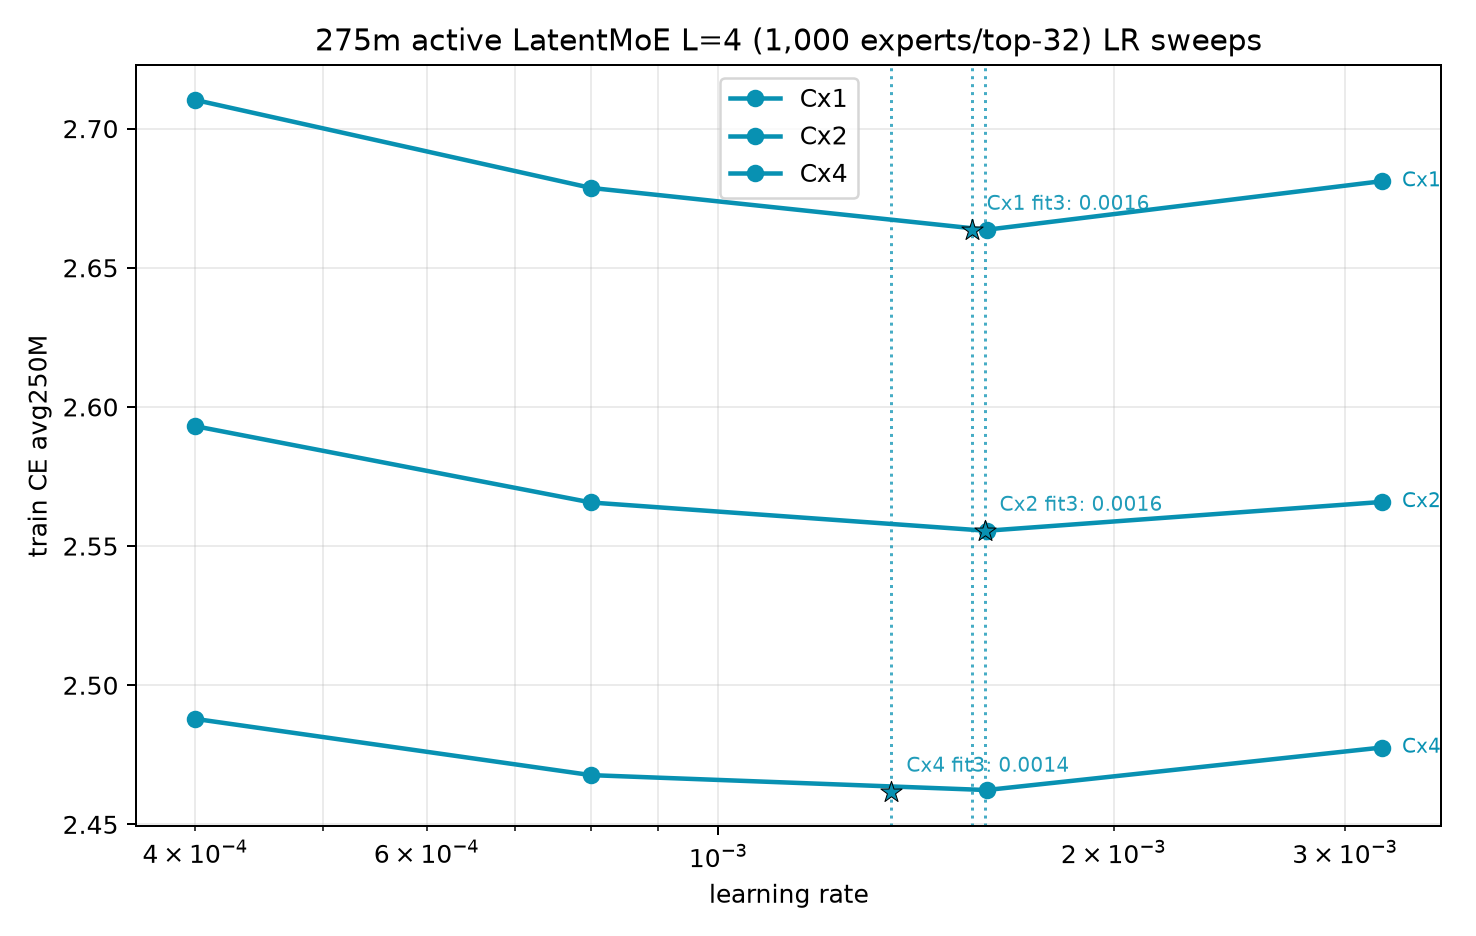
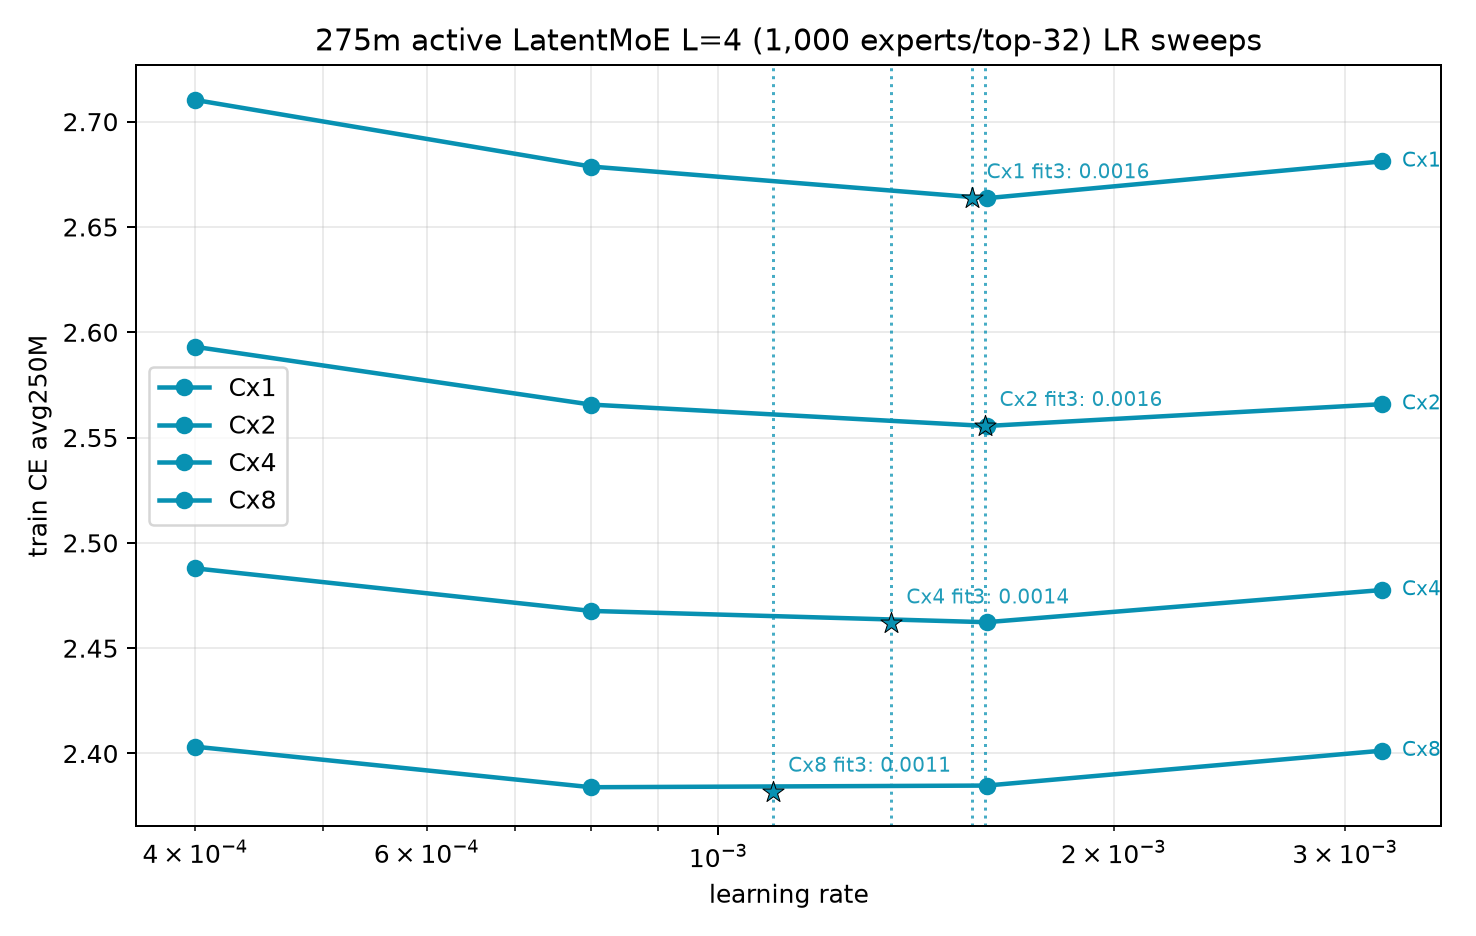
Finalize LatentMoE 275M sweep results

diff --git a/src/scripts/train/jacobm_olmoe_ladder/v1/wandb_cache.py b/src/scripts/train/jacobm_olmoe_ladder/v1/wandb_cache.py
@@ -321,7 +321,13 @@ def _sampled_tail_history(
       }
     }
     """
-    response = run._exec(query, specs=[json.dumps(spec)])
+    # ``Run._exec`` expects the parsed GraphQL document used by W&B's public
+    # client internals, not a raw query string. Keep this import local so the
+    # cache helpers remain importable in environments that do not install
+    # W&B until the plotting entry point is invoked.
+    from wandb.apis.public.runs import gql
+
+    response = run._exec(gql(query), specs=[json.dumps(spec)])
     return [
         dict(row)
         for row in response["project"]["run"]["sampledHistory"][0]

diff --git a/src/scripts/train/jacobm_olmoe_ladder/v2/RUNS.md b/src/scripts/train/jacobm_olmoe_ladder/v2/RUNS.md
@@ -10,7 +10,7 @@ Rows are updated as their corresponding collectors run; detailed sections
 retain the full launch and retry history. The canonical GDN2/KDA, new KDA
 transfer, MXFP8, LatentMoE, and validation rows were refreshed at
 2026-07-29 15:49 UTC. LatentMoE losses and live statuses were refreshed again
-at 2026-07-30 04:28 UTC.
+at 2026-07-30 15:38 UTC.
 
 | Stage | Family / cell | State | Progress / result | Current W&B |
 |---|---|---|---|---|
@@ -36,8 +36,8 @@ at 2026-07-30 04:28 UTC.
 | pretraining | canonical KDA 480M stability transfer | 4/4 finished | Cx1/2/4/8 strict final-250M CEs are `2.517826`, `2.412884`, `2.323228`, and `2.237558` | [launches](#canonical-kda-480m-stability-transfer) |
 | pretraining | KDA `expand_v=2`, negative-eigenvalue transfer (275M/480M/810M/1.2B) | 14 finished / 2 running | 810M is 4/4; 1.2B Cx1/Cx2 finished at strict final-250M CE `2.236574`/`2.146299`. The distributed Cx4/Cx8 continuations are healthy at steps `146,270/171,359` (85.4%, ETA 6h08m) and `183,000/228,478` (80.1%, ETA 8h53m), respectively. No failures in this KDA family. | [results](results/pretraining/canonical_gdn2_kda/kda_ev2_neg_scale_results.md) / [launches](#kda-expand_v2-negative-eigenvalue-transfer) |
 | qualification | LatentMoE PR #799, full-width-router controls, and 275M parameter-matched configs | 1,000-expert EP1 replacement qualified | Paper-matched 2× and exact 4× are 295.664M/296.770M active params. The selected 4× EP1 approximation uses exactly 1,000 experts/top-32 and is 296.632M active / 3.073B stored. Its exact-2-Mi result is 180.0K TPS/GPU and 280.4 TFLOPs/GPU; physical-max MB11 reaches 182.9K/284.9. Both 50-step runs have zero skips. | [plan and results](LATENT_MOE.md) / [capacity](https://beaker.org/orgs/ai2/workspaces/OLMo-3-moe-experiments/work/01KYP96YAGZ4CZCZBT87NHSA5X) / [throughput](https://beaker.org/orgs/ai2/workspaces/OLMo-3-moe-experiments/work/01KYPA1GYA09H78GCVT3PQ1TZH) |
-| pretraining | LatentMoE 275M LR sweeps | 20/32 finished; 12 running | L2 Cx4 is complete and bracketed, selecting `1.6e-3` with strict final-250M CE `2.443058`. L4 Cx4 and all eight Cx8 cells remain healthy/running. | [results](results/pretraining/kda_latent_moe/results.md) / [Cx4 work](https://beaker.org/orgs/ai2/workspaces/OLMo-3-moe-experiments/work/01KYQS79P3JFX4SSB4AM7B8CDK) / [Cx8 work](https://beaker.org/orgs/ai2/workspaces/OLMo-3-moe-experiments/work/01KYQS7J3NBH1TFX6Y1FGQ7WM2) |
-| pretraining | LatentMoE L=2 480M promotion | Cx1 finished; Cx2 running | Cx1 finished cleanly with transferred LR `1.2e-3` and strict final-250M CE `2.463192`, improving `0.029091` over matching non-latent KDA Cx1. | [results](results/pretraining/kda_latent_moe/results.md) / [Cx1](https://beaker.org/orgs/ai2/workspaces/OLMo-3-moe-experiments/work/01KYQV7G4MX67GCYSFPMWEB1J8) / [Cx2](https://beaker.org/orgs/ai2/workspaces/OLMo-3-moe-experiments/work/01KYQYM4F8JFXHDX1RXQE7913R) |
+| pretraining | LatentMoE 275M LR sweeps | 32/32 finished | Every L2/L4 Cx curve is complete and bracketed. Cx8 selects L2 `2.362515 @ 1.6e-3` and L4 `2.383977 @ 8e-4`. | [results](results/pretraining/kda_latent_moe/results.md) / [Cx4 work](https://beaker.org/orgs/ai2/workspaces/OLMo-3-moe-experiments/work/01KYQS79P3JFX4SSB4AM7B8CDK) / [Cx8 work](https://beaker.org/orgs/ai2/workspaces/OLMo-3-moe-experiments/work/01KYQS7J3NBH1TFX6Y1FGQ7WM2) |
+| pretraining | LatentMoE L=2 scale promotion | 480M Cx1/Cx2 finished; 480M Cx4/Cx8 and all 810M running | 480M Cx1/Cx2 strict final-250M CEs are `2.463192`/`2.361694`, improving `0.029091`/`0.021001` over matching KDA. The six newly launched cells are healthy at the 15:38 UTC refresh. | [results](results/pretraining/kda_latent_moe/results.md) / [480M Cx4/Cx8](https://beaker.org/orgs/ai2/workspaces/OLMo-3-moe-experiments/work/01KYRZ44KSS6A9EJ10BKR5H5HE) / [810M Cx1](https://beaker.org/orgs/ai2/workspaces/OLMo-3-moe-experiments/work/01KYRZACTKCVCGTBHWFWFQJ1XN) / [Cx2](https://beaker.org/orgs/ai2/workspaces/OLMo-3-moe-experiments/work/01KYRZAH05NCSNX6B5KTAP2RDF) / [Cx4](https://beaker.org/orgs/ai2/workspaces/OLMo-3-moe-experiments/work/01KYRZAKTWS4WGFED4MPYKCKX6) / [Cx8](https://beaker.org/orgs/ai2/workspaces/OLMo-3-moe-experiments/work/01KYRZAPNN7NDT3BG248BQ9D61) |
 | pretraining | aggressive MXFP8 KDA 275M LR sweep | 16/16 finished | All Cx curves are complete and bracketed. Observed best is `1.6e-3` throughout, with strict final-250M CE `2.685399`, `2.566948`, `2.463998`, and `2.383008` at Cx1/2/4/8. | [results](results/pretraining/kda_mxfp8/results.md) / [work](https://beaker.org/orgs/ai2/workspaces/OLMo-3-moe-experiments/work/01KYJPTZ3J4VHGBH0FSVAQRDGC) |
 | pretraining | aggressive MXFP8 KDA 480M transferred-LR continuation | 1 finished / 3 intentionally canceled | Cx1 finished at strict final-250M CE `2.497288`, `+0.005005` versus matching BF16 KDA; Cx2/Cx4/Cx8 were paused after the matched throughput audit found a 42--62% regression; durable checkpoints retained | [results](results/pretraining/kda_mxfp8/results.md) / [launches](#480m-aggressive-mxfp8-kda-transferred-lr-continuation) |
 | throughput | aggressive MXFP8 KDA 480M qualification | 2/2 finished | MB8/8-GPU: 192.7 TFLOPs/GPU, 69.8K TPS/GPU, 146.6/193.2 GiB active/reserved; MB6/16-GPU: 132.5 TFLOPs/GPU, 48.0K TPS/GPU, 111.1/155.7 GiB; zero skipped steps | [one node](https://beaker.org/orgs/ai2/workspaces/OLMo-3-moe-experiments/work/01KYKK27K7N1MVV702AKJ2DST8) / [two nodes](https://beaker.org/orgs/ai2/workspaces/OLMo-3-moe-experiments/work/01KYKK2A58MK03ANV6GAAZPAVG) |

diff --git a/src/scripts/train/jacobm_olmoe_ladder/v2/results/pretraining/kda_latent_moe/results.md b/src/scripts/train/jacobm_olmoe_ladder/v2/results/pretraining/kda_latent_moe/results.md
@@ -1,6 +1,6 @@
 # KDA LatentMoE paper-matched pretraining
 
-Generated: `2026-07-30T07:53:56.639267+00:00`
+Generated: `2026-07-30T15:38:17.308180+00:00`
 
 Metric: final `250M`-token mean training CE. The best-of plot uses observed finished points only after a curve is bracketed.
 
@@ -9,11 +9,11 @@ Metric: final `250M`-token mean training CE. The best-of plot uses observed fini
 | LatentMoE L=2 (paper-matched) | Cx1 | 4/4 | bracketed | 2.659602 @ 0.0016 | 2.658280 @ 0.0013 |
 | LatentMoE L=2 (paper-matched) | Cx2 | 4/4 | bracketed | 2.541918 @ 0.0016 | 2.541502 @ 0.0014 |
 | LatentMoE L=2 (paper-matched) | Cx4 | 4/4 | bracketed | 2.443058 @ 0.0016 | 2.442457 @ 0.0014 |
-| LatentMoE L=2 (paper-matched) | Cx8 | 3/4 | bracketed† | 2.362515 @ 0.0016 | 2.360045 @ 0.0011 |
+| LatentMoE L=2 (paper-matched) | Cx8 | 4/4 | bracketed | 2.362515 @ 0.0016 | 2.360705 @ 0.0012 |
 | LatentMoE L=4 (1,000 experts/top-32) | Cx1 | 4/4 | bracketed | 2.663658 @ 0.0016 | 2.663635 @ 0.0016 |
 | LatentMoE L=4 (1,000 experts/top-32) | Cx2 | 4/4 | bracketed | 2.555501 @ 0.0016 | 2.555500 @ 0.0016 |
 | LatentMoE L=4 (1,000 experts/top-32) | Cx4 | 4/4 | bracketed | 2.462333 @ 0.0016 | 2.461737 @ 0.0014 |
-| LatentMoE L=4 (1,000 experts/top-32) | Cx8 | 0/4 | — | — | — |
+| LatentMoE L=4 (1,000 experts/top-32) | Cx8 | 4/4 | bracketed | 2.383977 @ 0.0008 | 2.381851 @ 0.0011 |
 
 ## Larger-size transferred-LR results
 

diff --git a/src/scripts/train/jacobm_olmoe_ladder/v2/LATENT_MOE.md b/src/scripts/train/jacobm_olmoe_ladder/v2/LATENT_MOE.md
@@ -306,13 +306,14 @@ and seven were queued as backfill. The durable manifests are
 and
 [`275m_kda_latent_moe_lr_sweep_cx8_unallocated.yaml`](launchers/pretraining/manifests/275m_kda_latent_moe_lr_sweep_cx8_unallocated.yaml).
 
-At the 2026-07-30 07:47 UTC refresh, all four L=2 and all four L=4 Cx4 cells
-finished cleanly. Both curves are complete and bracketed. L=2 has observed
-best `2.443058 @ 1.6e-3` and diagnostic fit `2.442457 @ 1.37e-3`; L=4 has
-observed best `2.462333 @ 1.6e-3` and diagnostic fit `2.461737 @ 1.35e-3`.
-Three L=2 Cx8 cells are finished and already bracket the optimum; their
-provisional observed best is `2.362515 @ 1.6e-3`, while the 8e-4 cell remains
-in flight. All four L=4 Cx8 cells remain in flight.
+At the 2026-07-30 15:38 UTC refresh, all 32 cells in the 275M L=2/L=4 sweep
+finished cleanly and every Cx curve is complete and bracketed. At Cx4, L=2 has
+observed best `2.443058 @ 1.6e-3` and diagnostic fit
+`2.442457 @ 1.37e-3`; L=4 has observed best `2.462333 @ 1.6e-3` and
+diagnostic fit `2.461737 @ 1.35e-3`. At Cx8, L=2 has observed best
+`2.362515 @ 1.6e-3` and diagnostic fit `2.360705 @ 1.20e-3`; L=4 has
+observed best `2.383977 @ 8e-4` and diagnostic fit
+`2.381851 @ 1.10e-3`.
 
 The promoted 480M L=2 Cx1 run also finished cleanly at transferred LR
 `1.2e-3`, with strict final-250M CE `2.463192`. That is `0.029091` lower than
